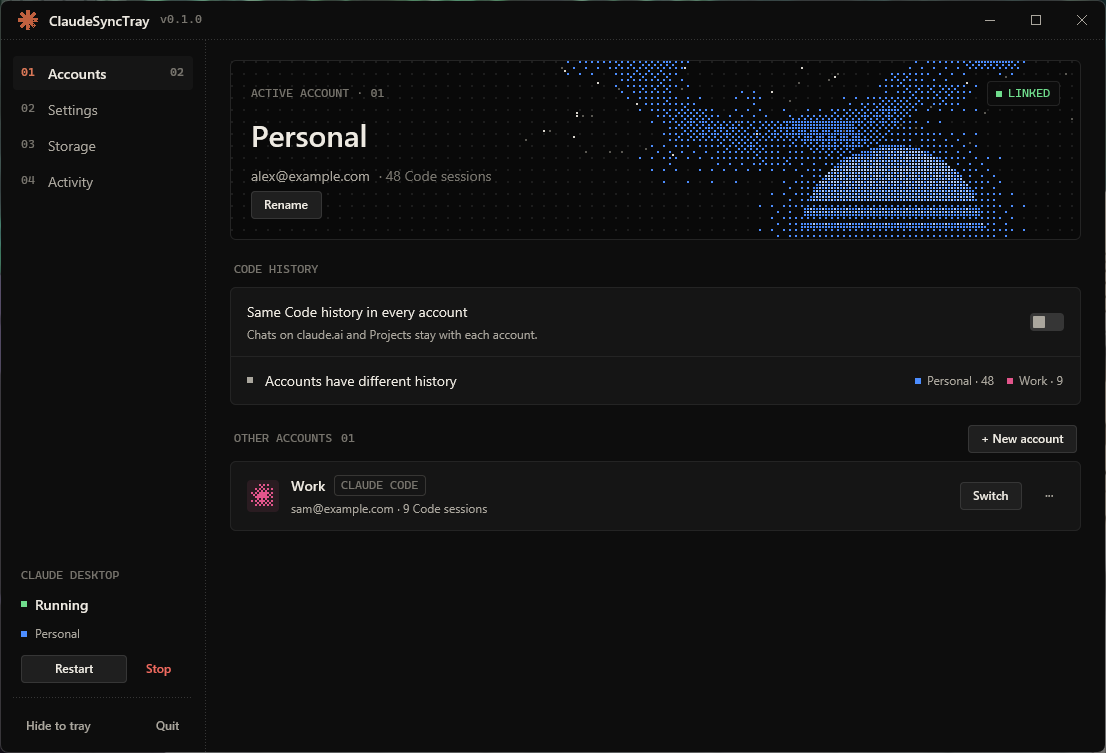
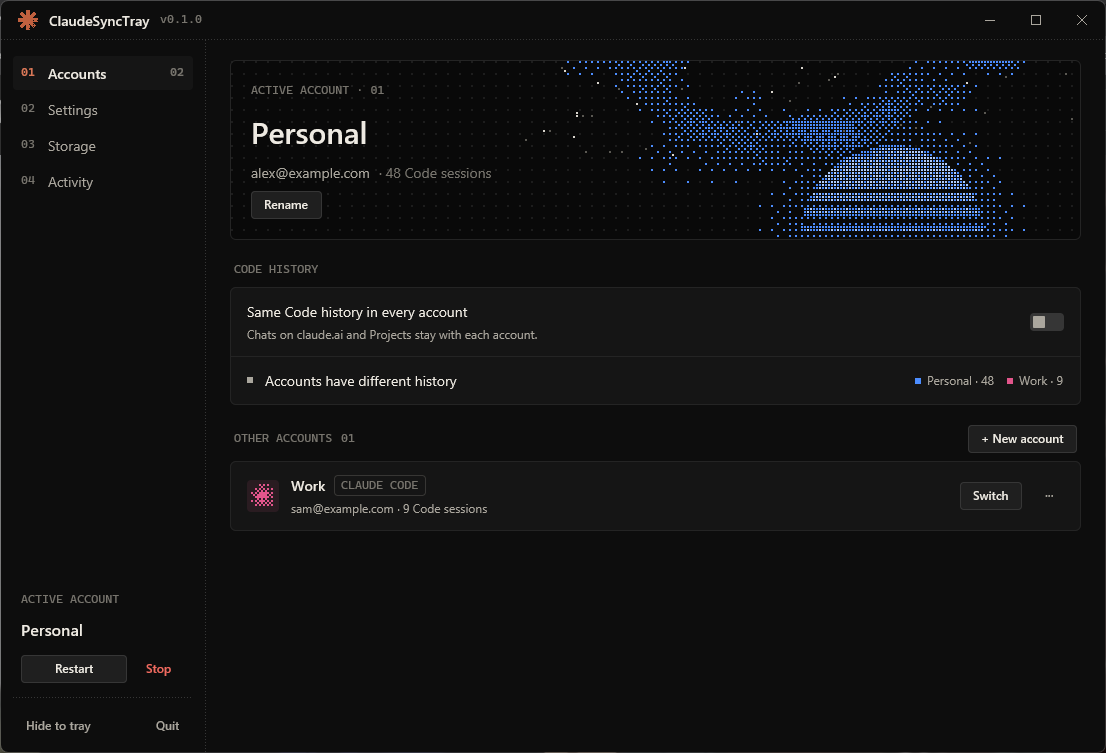
feat(ui): drop the LINKED badge and the Running row, show the account name
The hero badge now only appears when the link needs attention. The sidebar
shows the active account's name instead of a Running status and colour dot.
dev.ps1 gives each renamed exe its own name so a locked leftover can't block it.

diff --git a/src/ui.rs b/src/ui.rs
@@ -1141,7 +1141,6 @@ impl DashboardView {
     fn render_sidebar(&self, cx: &mut Context<Self>) -> impl IntoElement {
         let busy = self.busy_message.is_some();
         let running = self.claude_pids > 0;
-        let active_idx = self.manager.active();
         let active_name = self.manager.active_profile().name.clone();
         let profile_count = self.manager.profiles().len();
 
@@ -1173,37 +1172,16 @@ impl DashboardView {
                     .flex()
                     .flex_col()
                     .gap_2()
-                    .child(caption("CLAUDE DESKTOP"))
+                    .child(caption("ACTIVE ACCOUNT"))
                     .child(
                         div()
-                            .flex()
-                            .flex_row()
-                            .items_center()
-                            .gap_2()
-                            .child(status_dot(if running { SUCCESS } else { TEXT_FAINT }))
-                            .child(
-                                div()
-                                    .text_sm()
-                                    .font_weight(FontWeight::MEDIUM)
-                                    .text_color(rgb(TEXT))
-                                    .child(if running { "Running" } else { "Not running" }),
-                            ),
-                    )
-                    .child(
-                        div()
-                            .flex()
-                            .flex_row()
-                            .items_center()
-                            .gap_2()
-                            .child(status_dot(account_hex(active_idx)))
-                            .child(
-                                div()
-                                    .min_w_0()
-                                    .truncate()
-                                    .text_xs()
-                                    .text_color(rgb(TEXT_MUTED))
-                                    .child(active_name),
-                            ),
+                            .w_full()
+                            .overflow_hidden()
+                            .whitespace_nowrap()
+                            .text_base()
+                            .font_weight(FontWeight::SEMIBOLD)
+                            .text_color(rgb(TEXT))
+                            .child(shorten(&active_name, 18)),
                     )
                     .child(
                         div()
@@ -1331,10 +1309,10 @@ impl DashboardView {
         let facts = self.facts(index);
         let sessions = facts.sessions();
         let is_renaming = self.editing == Some(EditingField::RenameProfile(index));
-        let (link_label, link_tone) = match self.cached_link() {
-            LinkHealth::Healthy => ("LINKED", SUCCESS),
-            LinkHealth::NotLinked => ("NOT LINKED", WARNING),
-            LinkHealth::Broken => ("LINK BROKEN", DANGER),
+        let link_problem = match self.cached_link() {
+            LinkHealth::Healthy => None,
+            LinkHealth::NotLinked => Some(("NOT LINKED", WARNING)),
+            LinkHealth::Broken => Some(("LINK BROKEN", DANGER)),
         };
 
         let title = if is_renaming {
@@ -1354,13 +1332,7 @@ impl DashboardView {
                 )
                 .into_any_element()
         } else {
-            // GPUI's ellipsis truncation collapses large text to "…", so clip and
-            // shorten by hand instead.
-            let shown: String = if name.chars().count() > 26 {
-                name.chars().take(25).chain(std::iter::once('…')).collect()
-            } else {
-                name.to_string()
-            };
+            let shown = shorten(&name, 26);
             div()
                 .w_full()
                 .overflow_hidden()
@@ -1404,7 +1376,8 @@ impl DashboardView {
                             .items_center()
                             .justify_between()
                             .child(caption(format!("ACTIVE ACCOUNT · {:02}", index + 1)))
-                            .child(
+                            // A healthy link is the normal state and needs no badge.
+                            .children(link_problem.map(|(label, tone)| {
                                 div()
                                     .flex()
                                     .flex_row()
@@ -1416,15 +1389,15 @@ impl DashboardView {
                                     .bg(rgba((BG << 8) | 0xd9))
                                     .border_1()
                                     .border_color(rgb(BORDER))
-                                    .child(status_dot(link_tone))
+                                    .child(status_dot(tone))
                                     .child(
                                         div()
                                             .font_family(MONO)
                                             .text_xs()
-                                            .text_color(rgb(link_tone))
-                                            .child(link_label),
-                                    ),
-                            ),
+                                            .text_color(rgb(tone))
+                                            .child(label),
+                                    )
+                            })),
                     )
                     .child(
                         div()
@@ -2737,6 +2710,16 @@ fn time_ago(ms: u64) -> String {
         60..=3599 => format!("{}m ago", seconds / 60),
         3600..=86399 => format!("{}h ago", seconds / 3600),
         _ => format!("{}d ago", seconds / 86400),
+    }
+}
+
+/// Cuts `text` to `max` characters with a trailing ellipsis. GPUI's own truncation collapses
+/// larger text to just "…", so long names are shortened by hand.
+fn shorten(text: &str, max: usize) -> String {
+    if text.chars().count() > max {
+        text.chars().take(max - 1).chain(std::iter::once('…')).collect()
+    } else {
+        text.to_string()
     }
 }
 
